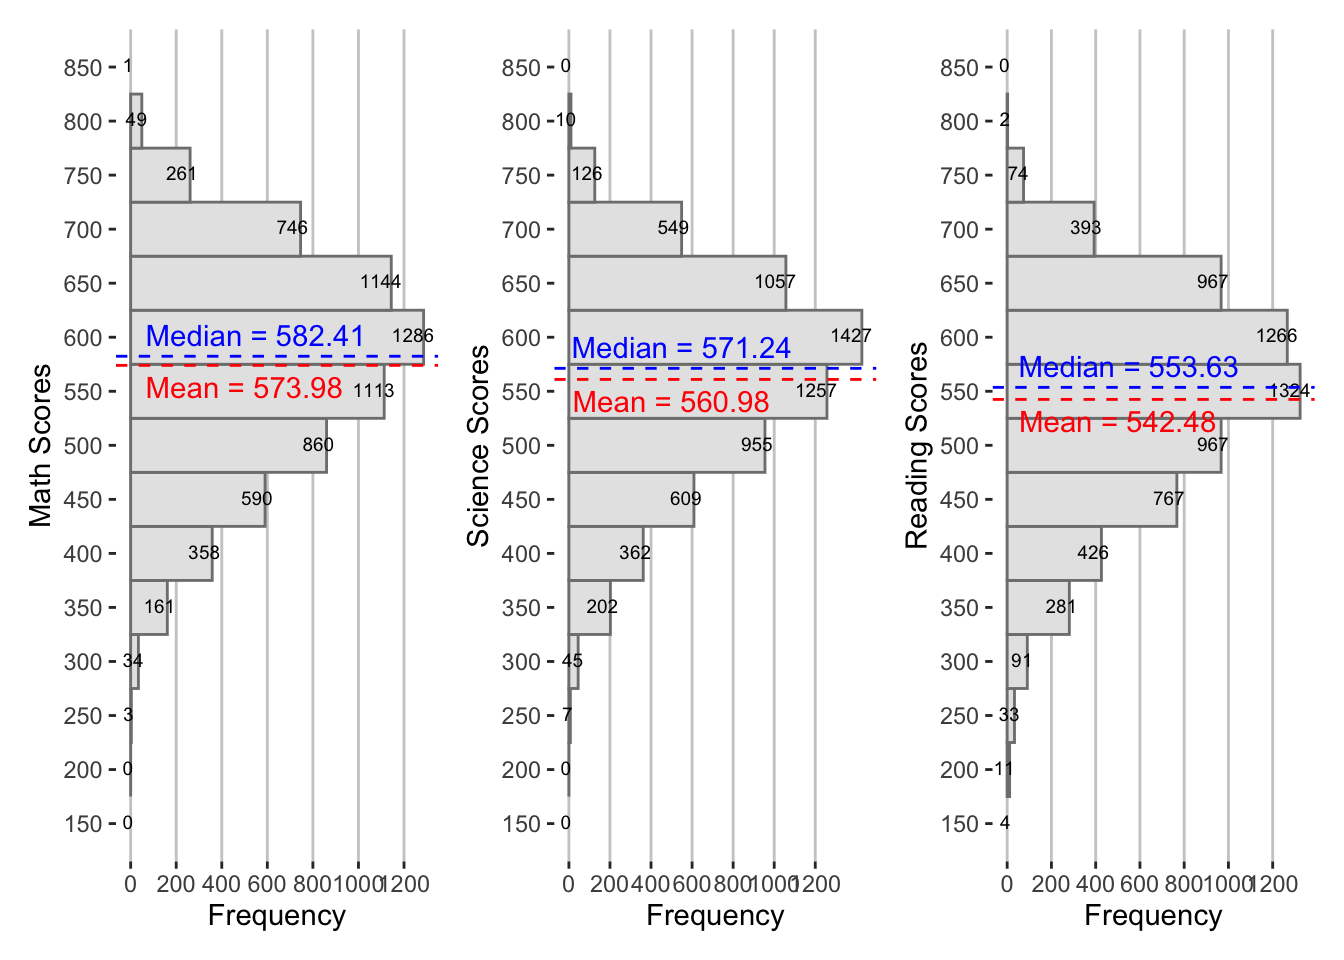
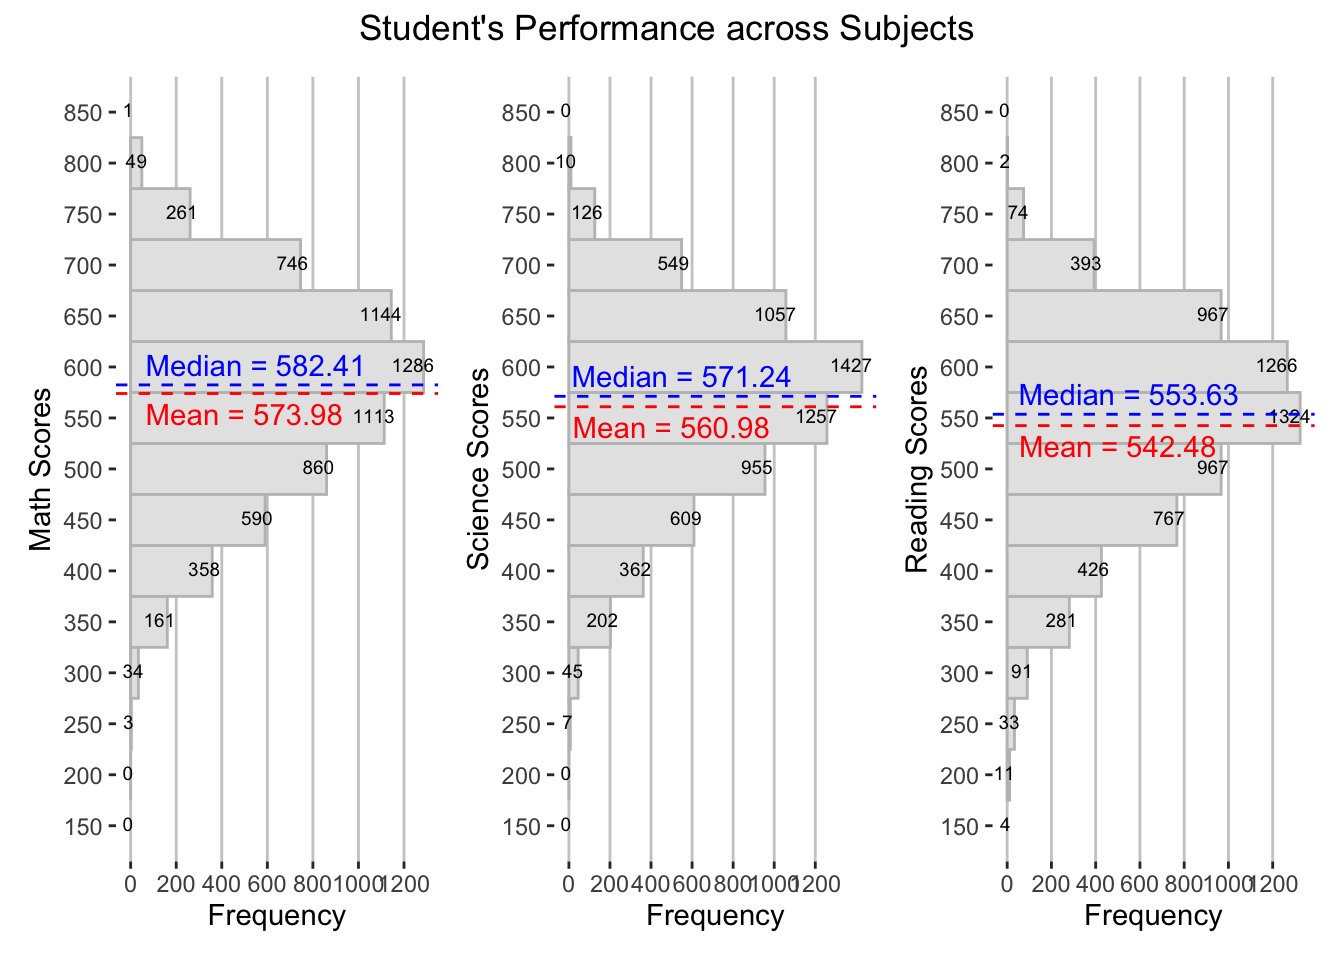
Take-home Exercise 2 Commit revision 2

diff --git a/_site/Take-home_Ex/Take-home_Ex2/Take-home_Ex2.html b/_site/Take-home_Ex/Take-home_Ex2/Take-home_Ex2.html
@@ -136,6 +136,22 @@ pre > code.sourceCode > span > a:first-child::before { text-decoration: underlin
     <a class="dropdown-item" href="../../Hands-on_Ex/Hands-on_Ex3/Hands-on_Ex3b.html" rel="" target="">
  <span class="dropdown-text">Hands-on Exercise 3b</span></a>
   </li>  
+        <li>
+    <a class="dropdown-item" href="../../Hands-on_Ex/Hands-on_Ex4/Hands-on_Ex4a.html" rel="" target="">
+ <span class="dropdown-text">Hands-on Exercise 4a</span></a>
+  </li>  
+        <li>
+    <a class="dropdown-item" href="../../Hands-on_Ex/Hands-on_Ex4/Hands-on_Ex4b.html" rel="" target="">
+ <span class="dropdown-text">Hands-on Exercise 4b</span></a>
+  </li>  
+        <li>
+    <a class="dropdown-item" href="../../Hands-on_Ex/Hands-on_Ex4/Hands-on_Ex4c.html" rel="" target="">
+ <span class="dropdown-text">Hands-on Exercise 4c</span></a>
+  </li>  
+        <li>
+    <a class="dropdown-item" href="../../Hands-on_Ex/Hands-on_Ex4/Hands-on_Ex4d.html" rel="" target="">
+ <span class="dropdown-text">Hands-on Exercise 4d</span></a>
+  </li>  
     </ul>
   </li>
   <li class="nav-item dropdown ">
@@ -392,7 +408,7 @@ $ socio_economic &lt;dbl&gt; 0.1836, 0.8261, -1.0357, -0.9606, 0.0856, 0.1268, -
 <span id="cb15-10"><a href="#cb15-10" aria-hidden="true" tabindex="-1"></a>p1 <span class="ot">&lt;-</span> <span class="fu">ggplot</span>(<span class="at">data =</span> stu_qqq,</span>
 <span id="cb15-11"><a href="#cb15-11" aria-hidden="true" tabindex="-1"></a>       <span class="fu">aes</span>(<span class="at">x =</span> math)) <span class="sc">+</span></span>
 <span id="cb15-12"><a href="#cb15-12" aria-hidden="true" tabindex="-1"></a>  <span class="fu">geom_histogram</span>(<span class="at">binwidth =</span> <span class="dv">50</span>,</span>
-<span id="cb15-13"><a href="#cb15-13" aria-hidden="true" tabindex="-1"></a>                 <span class="at">color =</span> <span class="st">'grey50'</span>,</span>
+<span id="cb15-13"><a href="#cb15-13" aria-hidden="true" tabindex="-1"></a>                 <span class="at">color =</span> <span class="st">'grey75'</span>,</span>
 <span id="cb15-14"><a href="#cb15-14" aria-hidden="true" tabindex="-1"></a>                 <span class="at">fill =</span> <span class="st">'grey90'</span>) <span class="sc">+</span></span>
 <span id="cb15-15"><a href="#cb15-15" aria-hidden="true" tabindex="-1"></a>  <span class="fu">stat_bin</span>(<span class="at">binwidth =</span> <span class="dv">50</span>,</span>
 <span id="cb15-16"><a href="#cb15-16" aria-hidden="true" tabindex="-1"></a>           <span class="at">geom =</span> <span class="st">"text"</span>,</span>
@@ -432,7 +448,7 @@ $ socio_economic &lt;dbl&gt; 0.1836, 0.8261, -1.0357, -0.9606, 0.0856, 0.1268, -
 <span id="cb15-50"><a href="#cb15-50" aria-hidden="true" tabindex="-1"></a>p2 <span class="ot">&lt;-</span> <span class="fu">ggplot</span>(<span class="at">data =</span> stu_qqq,</span>
 <span id="cb15-51"><a href="#cb15-51" aria-hidden="true" tabindex="-1"></a>       <span class="fu">aes</span>(<span class="at">x =</span> science)) <span class="sc">+</span></span>
 <span id="cb15-52"><a href="#cb15-52" aria-hidden="true" tabindex="-1"></a>  <span class="fu">geom_histogram</span>(<span class="at">binwidth =</span> <span class="dv">50</span>,</span>
-<span id="cb15-53"><a href="#cb15-53" aria-hidden="true" tabindex="-1"></a>                 <span class="at">color =</span> <span class="st">'grey50'</span>,</span>
+<span id="cb15-53"><a href="#cb15-53" aria-hidden="true" tabindex="-1"></a>                 <span class="at">color =</span> <span class="st">'grey75'</span>,</span>
 <span id="cb15-54"><a href="#cb15-54" aria-hidden="true" tabindex="-1"></a>                 <span class="at">fill =</span> <span class="st">'grey90'</span>) <span class="sc">+</span></span>
 <span id="cb15-55"><a href="#cb15-55" aria-hidden="true" tabindex="-1"></a>  <span class="fu">stat_bin</span>(<span class="at">binwidth =</span> <span class="dv">50</span>,</span>
 <span id="cb15-56"><a href="#cb15-56" aria-hidden="true" tabindex="-1"></a>           <span class="at">geom =</span> <span class="st">"text"</span>,</span>
@@ -472,7 +488,7 @@ $ socio_economic &lt;dbl&gt; 0.1836, 0.8261, -1.0357, -0.9606, 0.0856, 0.1268, -
 <span id="cb15-90"><a href="#cb15-90" aria-hidden="true" tabindex="-1"></a>p3 <span class="ot">&lt;-</span> <span class="fu">ggplot</span>(<span class="at">data =</span> stu_qqq,</span>
 <span id="cb15-91"><a href="#cb15-91" aria-hidden="true" tabindex="-1"></a>       <span class="fu">aes</span>(<span class="at">x =</span> read)) <span class="sc">+</span></span>
 <span id="cb15-92"><a href="#cb15-92" aria-hidden="true" tabindex="-1"></a>  <span class="fu">geom_histogram</span>(<span class="at">binwidth =</span> <span class="dv">50</span>,</span>
-<span id="cb15-93"><a href="#cb15-93" aria-hidden="true" tabindex="-1"></a>                 <span class="at">color =</span> <span class="st">'grey50'</span>,</span>
+<span id="cb15-93"><a href="#cb15-93" aria-hidden="true" tabindex="-1"></a>                 <span class="at">color =</span> <span class="st">'grey75'</span>,</span>
 <span id="cb15-94"><a href="#cb15-94" aria-hidden="true" tabindex="-1"></a>                 <span class="at">fill =</span> <span class="st">'grey90'</span>) <span class="sc">+</span></span>
 <span id="cb15-95"><a href="#cb15-95" aria-hidden="true" tabindex="-1"></a>  <span class="fu">stat_bin</span>(<span class="at">binwidth =</span> <span class="dv">50</span>,</span>
 <span id="cb15-96"><a href="#cb15-96" aria-hidden="true" tabindex="-1"></a>           <span class="at">geom =</span> <span class="st">"text"</span>,</span>
@@ -509,7 +525,10 @@ $ socio_economic &lt;dbl&gt; 0.1836, 0.8261, -1.0357, -0.9606, 0.0856, 0.1268, -
 <span id="cb15-127"><a href="#cb15-127" aria-hidden="true" tabindex="-1"></a>        <span class="at">panel.grid.major.y =</span> <span class="fu">element_blank</span>()) <span class="sc">+</span></span>
 <span id="cb15-128"><a href="#cb15-128" aria-hidden="true" tabindex="-1"></a>  <span class="fu">coord_flip</span>() </span>
 <span id="cb15-129"><a href="#cb15-129" aria-hidden="true" tabindex="-1"></a></span>
-<span id="cb15-130"><a href="#cb15-130" aria-hidden="true" tabindex="-1"></a>p1 <span class="sc">|</span> p2 <span class="sc">|</span> p3</span></code><button title="Copy to Clipboard" class="code-copy-button"><i class="bi"></i></button></pre></div>
+<span id="cb15-130"><a href="#cb15-130" aria-hidden="true" tabindex="-1"></a>p1 <span class="sc">+</span> p2 <span class="sc">+</span> p3 <span class="sc">+</span> <span class="fu">plot_annotation</span>(</span>
+<span id="cb15-131"><a href="#cb15-131" aria-hidden="true" tabindex="-1"></a>  <span class="at">title =</span> <span class="st">'Student</span><span class="sc">\'</span><span class="st">s Performance across Subjects '</span>,</span>
+<span id="cb15-132"><a href="#cb15-132" aria-hidden="true" tabindex="-1"></a>  <span class="at">theme =</span> <span class="fu">theme</span>(<span class="at">plot.title =</span> <span class="fu">element_text</span>(<span class="at">hjust =</span> <span class="fl">0.5</span>))</span>
+<span id="cb15-133"><a href="#cb15-133" aria-hidden="true" tabindex="-1"></a>)</span></code><button title="Copy to Clipboard" class="code-copy-button"><i class="bi"></i></button></pre></div>
 <div class="cell-output-display">
 <p><img src="Take-home_Ex2_files/figure-html/unnamed-chunk-9-1.png" class="img-fluid" width="672"></p>
 </div>
